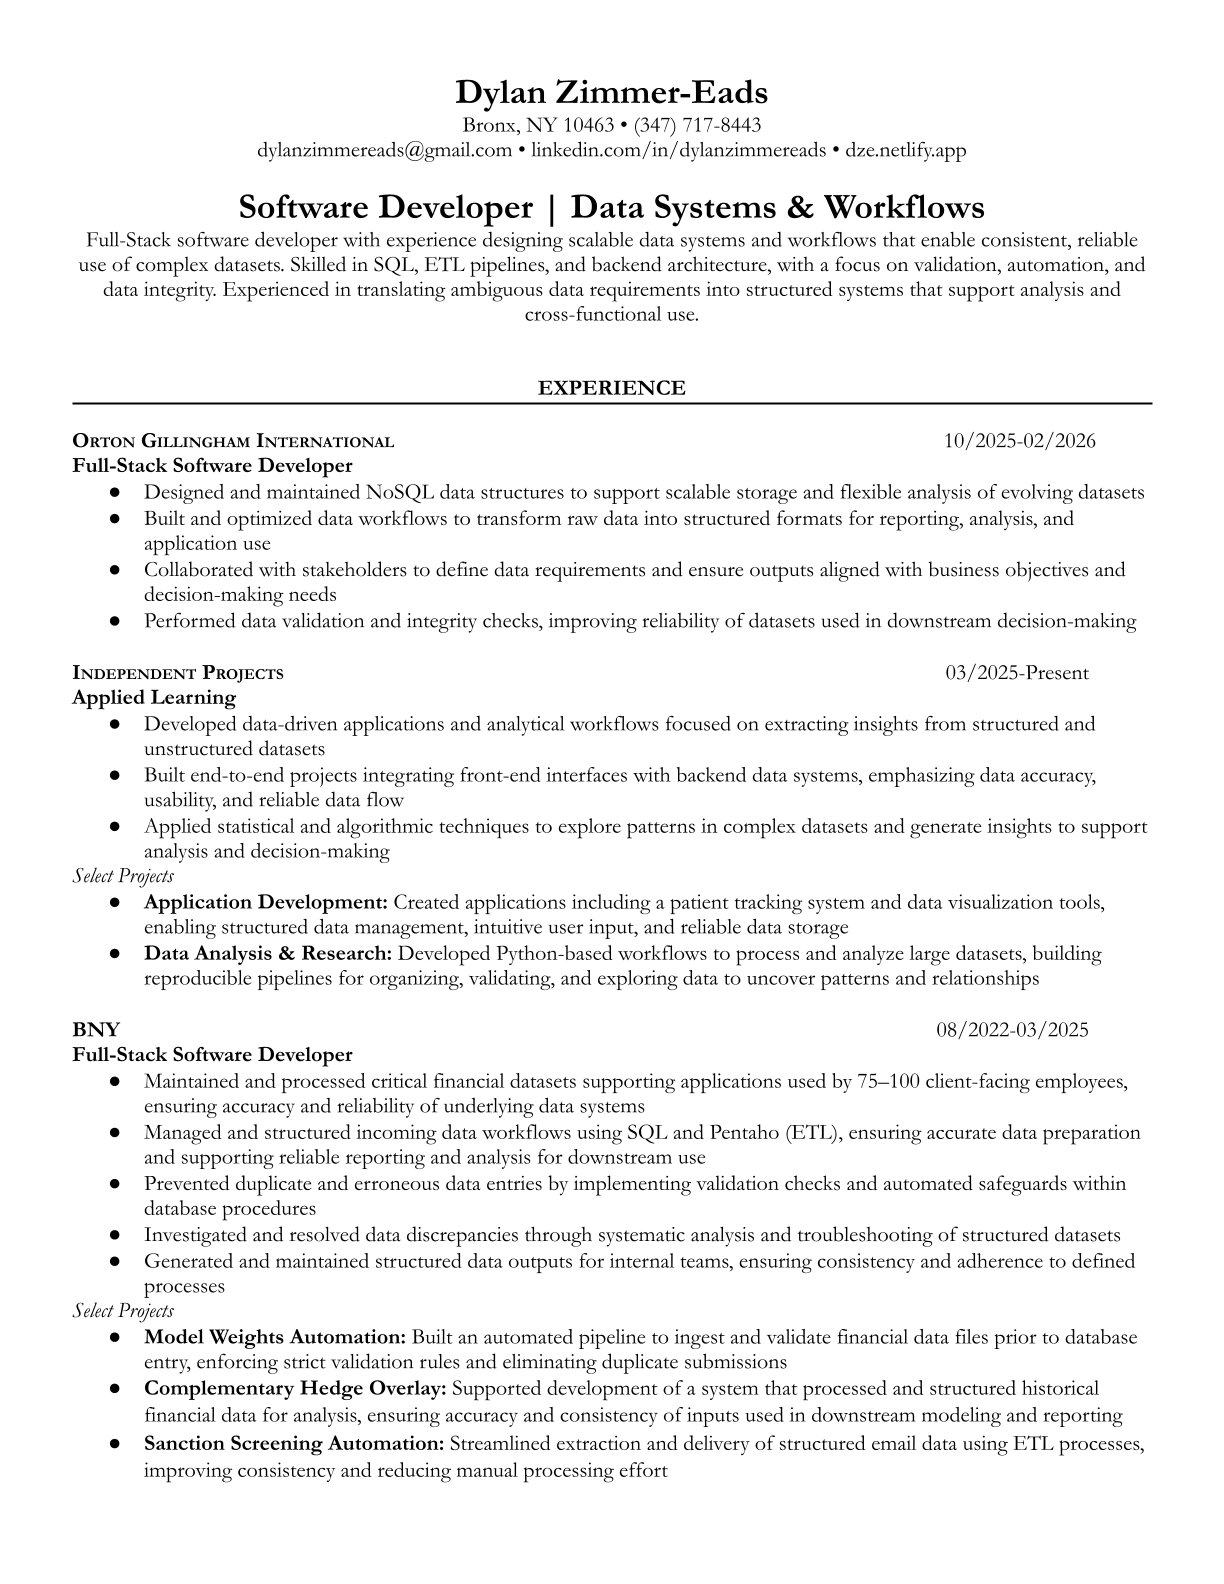
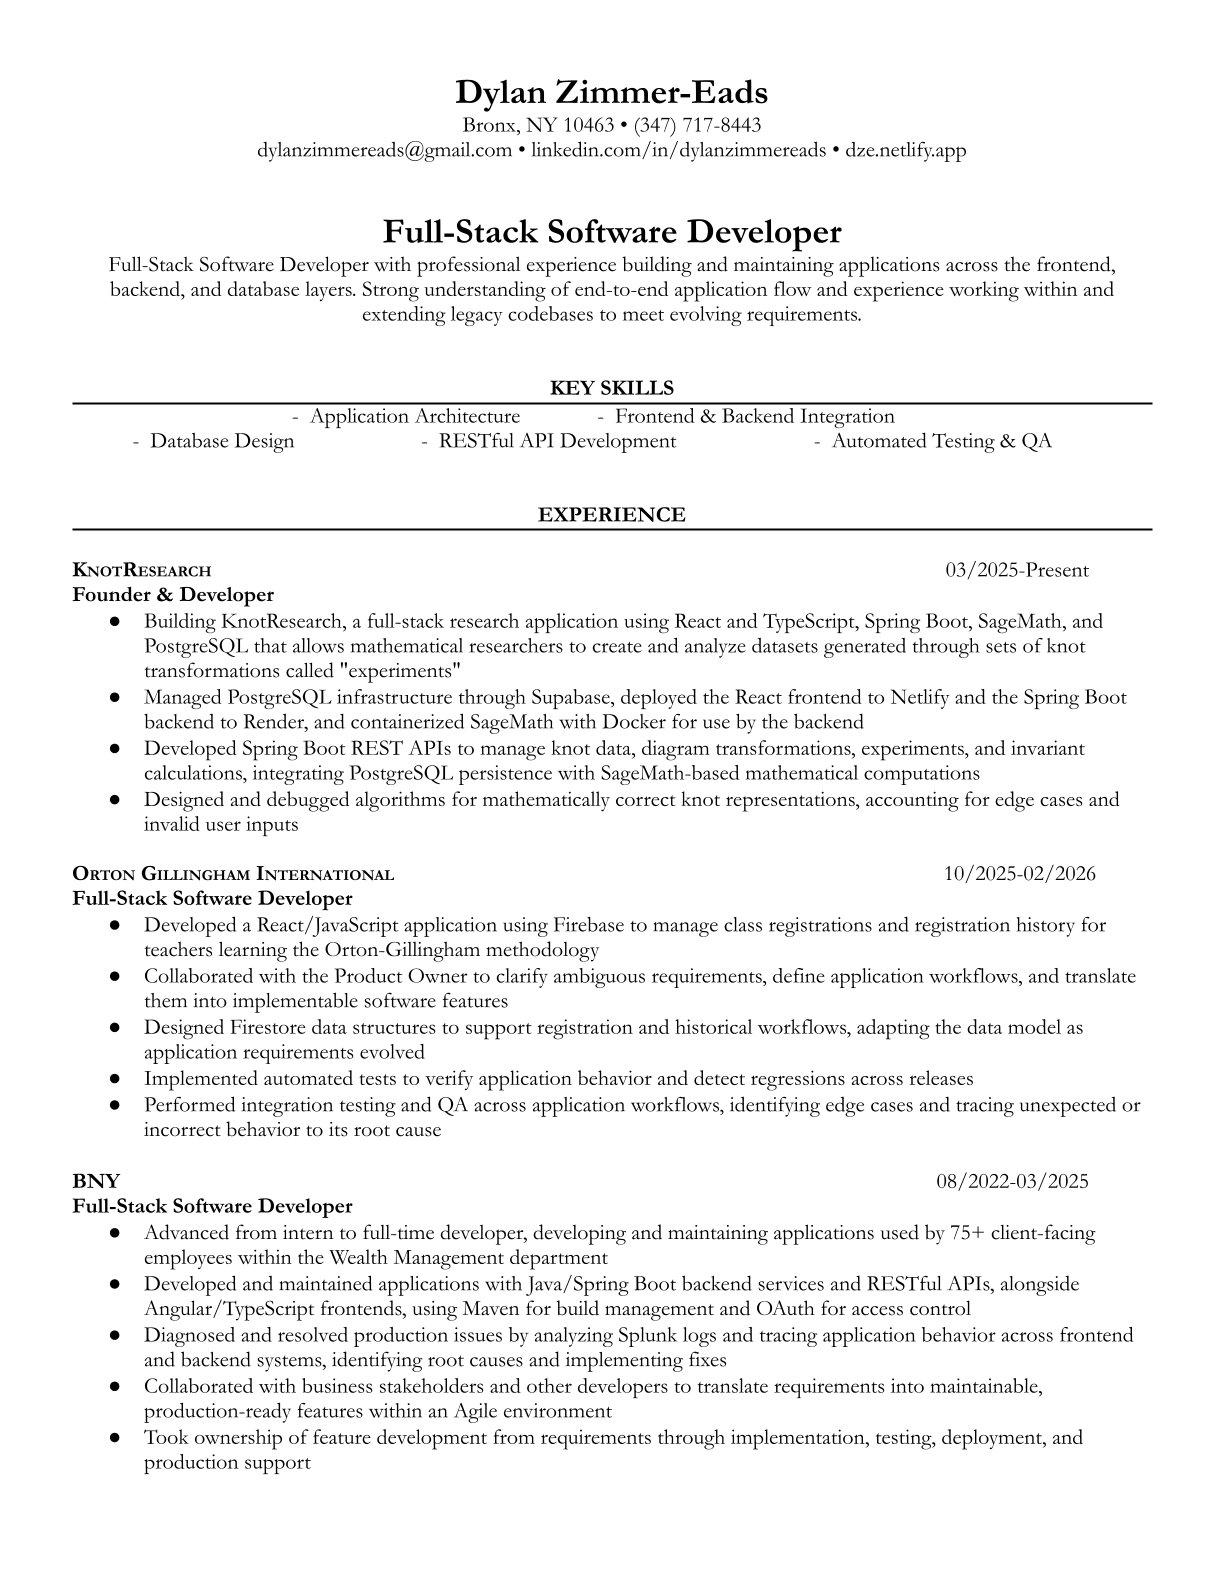
Updates

diff --git a/src/PersonalExperience.jsx b/src/PersonalExperience.jsx
@@ -23,64 +23,62 @@ function PersonalExperience() {
                     {activeCard === 'swExp' ? (
                         <div className="box-back">
                             <div className="card-header">
-                                <h3>Software Engineering Projects</h3>
-                                <a href="https://github.com/DylanZimmer/software-engineering-projects/tree/main" target="_blank" rel="noopener noreferrer">Projects</a>
+                                <h3>Previous Projects</h3>
+                                <a href="https://github.com/DylanZimmer/previous_projects" target="_blank" rel="noopener noreferrer">Projects</a>
                             </div>
                             <hr />
                             <div className="card-description">
                                 <ul>
-                                    <li>Built Workspace, an AI-powered research workspace using Gemini that generates structured objects, stores notes, and supports specialized model instances for domain-specific tasks</li>
-                                    <li>Developed Surgery Status in a Chingu collaboration, a hospital dashboard with role-based access allowing guests, surgeons, and admins to manage patient status data</li>
-                                    <li>Created Data Exploration, a tool for programmatic dataset inspection and pattern discovery through interactive queries and analysis workflows</li>
-                                    <li>Designed a Tableau data visualization dashboard to explore trends in structured datasets, highlighting statistical patterns through interactive visualizations</li>
-                                    <li>Implemented Firebase-backed NoSQL schemas, authentication, and modular React components across projects to support secure and scalable applications</li>
+                                    <li>Developed a primitive AI-powered research workspace called TrackedSpace using Gemini, with structured data objects, notes, and specialized model instances</li>
+                                    <li>Developed Surgery Status in a Chingu collaboration, a hospital dashboard with role-based access for managing patient status data</li>
+                                    <li>Created an interactive Tableau dashboard for exploring trends and patterns in reported UFO sightings</li>
+                                    <li>Developed React-based interfaces and integrated third-party services such as Gemini, Firebase, and Tableau across personal software projects</li>
                                 </ul>
                             </div>
                             <hr />
                             <div className="card-technologies-container">
                                 <strong>Technologies:</strong><br /> 
-                                <div className="card-technologies">React, Javascript, Firebase, Tailwind, Gemini, Tableau</div>
+                                <div className="card-technologies">React, JavaScript, Firebase, Gemini, Tableau</div>
                             </div>
                         </div>
                     ) : (
                         <div className="box-front">
-                            <div className="company-name">Software Engineering Projects</div>
-                            <img src="/visuals/swExp.jpg" alt="Software Engineering Experience" />
+                            <div className="company-name">Previous Projects</div>
+                            <img src="/visuals/swExp.jpg" alt="Previous Experience" />
                             <div className="role-title">Developer</div>
                         </div>
                     )}
                 </motion.div>
                 <motion.div
-                    className={`experience-box ${activeCard === 'workspace' ? 'expanded' : activeCard ? 'shrunk' : ''}`}
-                    onClick={() => setActiveCard(activeCard === 'workspace' ? null : 'workspace')}
+                    className={`experience-box ${activeCard === 'knotresearch' ? 'expanded' : activeCard ? 'shrunk' : ''}`}
+                    onClick={() => setActiveCard(activeCard === 'knotresearch' ? null : 'knotresearch')}
                 >
-                    {activeCard === 'workspace' ? (
+                    {activeCard === 'knotresearch' ? (
                         <div className="box-back">
                             <div className="card-header">
-                                <h3>Computational Math Research</h3>
-                                <a href="https://github.com/DylanZimmer/math-research" target="_blank" rel="noopener noreferrer">Projects</a>
+                                <h3>KnotResearch</h3>
+                                <a href="https://knotresearch.netlify.app/" target="_blank" rel="noopener noreferrer">KnotResearch</a>
                             </div>
                             <hr />
                             <div className="card-description">
                                 <ul>
-                                    <li>Built computational pipelines to explore large combinatorial structures and unknown Ramsey numbers, generating and analyzing massive graph datasets efficiently</li>
-                                    <li>Developed a modular knot invariant pipeline integrating databases with automated invariant computations using SageMath</li>
-                                    <li>Designed SQLite-based data storage and management systems for graphs and knot invariants to enable reproducible experiments and structured querying</li>
-                                    <li>Automated workflow for generating, analyzing, and storing results, reducing manual overhead and allowing scalable computational experimentation</li>
-                                    <li>Emphasized clean code architecture, modular functions, and reproducibility, bridging theoretical mathematics with computational tooling</li>
+                                    <li>Building KnotResearch, a full-stack research application using React and TypeScript, Spring Boot, SageMath, and PostgreSQL that allows mathematical researchers to create and analyze datasets generated through sets of knot transformations called "experiments"</li>
+                                    <li>Managed PostgreSQL infrastructure through Supabase, deployed the React frontend to Netlify and the Spring Boot backend to Render, and containerized SageMath with Docker for use by the backend</li>
+                                    <li>Developed Spring Boot REST APIs to manage knot data, diagram transformations, experiments, and invariant calculations, integrating PostgreSQL persistence with SageMath-based mathematical computations</li>
+                                    <li>Designed and debugged algorithms for mathematically correct knot representations, accounting for edge cases and invalid user inputs</li>
                                 </ul>
                             </div>
                             <hr />
                             <div className="card-technologies-container">
                                 <strong>Technologies:</strong><br /> 
-                                <div className="card-technologies">Python, SQLite, SageMath</div>
+                                <div className="card-technologies">React, TypeScript, Spring Boot, PostgreSQL, SageMath, Docker, Supabase</div>
                             </div>
                         </div>
                     ) : (
                         <div className="box-front">
-                            <div className="company-name">Computational Math Research</div>
-                            <img src="/visuals/math_research.png" alt="Math Research" />
-                            <div className="role-title">Researcher</div>
+                            <div className="company-name">KnotResearch</div>
+                            <img src="/visuals/knot_research.png" alt="KnotResearch" />
+                            <div className="role-title">Developer</div>
                         </div>
                     )}
                 </motion.div>

diff --git a/src/WorkExperience.jsx b/src/WorkExperience.jsx
@@ -30,17 +30,18 @@ function WorkExperience() {
                             </div>
                             <hr />
                             <div className="card-description">
-                            Collaborated with the company founder and original developer to finalize version one of the updated app in anticipation of increased traffic. Refactored core logic to enhance scalability and simplify ongoing maintenance ahead of hard launch.
                                 <ul>
-                                    <li>Implemented a NoSQL database to enable flexible data modeling and accelerate iteration on evolving app features</li>
-                                    <li>Applied scalable design patterns and refactored core logic to improve maintainability and performance</li>
-                                    <li>Resolved critical bugs and optimized workflows ahead of the app’s hard launch</li>
+                                    <li>Developed a React/JavaScript application using Firebase to manage class registrations and registration history for teachers learning the Orton-Gillingham methodology</li>
+                                    <li>Collaborated with the Product Owner to clarify ambiguous requirements, define application workflows, and translate them into implementable software features</li>
+                                    <li>Designed Firestore data structures to support registration and historical workflows, adapting the data model as application requirements evolved</li>
+                                    <li>Implemented automated tests to verify application behavior and detect regressions across releases</li>
+                                    <li>Performed integration testing and QA across application workflows, identifying edge cases and tracing unexpected or incorrect behavior to its root cause</li>
                                 </ul>
                             </div>
                             <hr />
                             <div className="card-technologies-container">
                                 <strong>Technologies:</strong><br /> 
-                                <div className="card-technologies">React, MongoDB, Typescript</div>
+                                <div className="card-technologies">React, JavaScript, Firebase, Firestore</div>
                             </div>
                         </div>
                     ) : (
@@ -66,18 +67,18 @@ function WorkExperience() {
                             </div>
                             <hr />
                             <div className="card-description">
-                            Maintained and expanded legacy code while creating new applications for the Wealth Management team. Worked in an Agile Scrum environment to deliver timely, high-quality solutions that supported critical client-facing systems.
                                 <ul>
-                                    <li>Built ETL processes to automate data flow</li>
-                                    <li>Collaborated on experimental hedge overlay tool that leveraged historical investment data to strengthen portfolio recommendations</li>
-                                    <li>Integrated OAuth-based security and Maven dependency management to sustain reliability of RESTful APIs</li>
-                                    <li>Developed new landing pages within existing applications, extending functionality and improving usability for client-facing teams</li>
+                                    <li>Advanced from intern to full-time developer, developing and maintaining applications used by 75+ client-facing employees within the Wealth Management department</li>
+                                    <li>Developed and maintained applications with Java/Spring Boot backend services and RESTful APIs, alongside Angular/TypeScript frontends, using Maven for build management and OAuth for access control</li>
+                                    <li>Diagnosed and resolved production issues by analyzing Splunk logs and tracing application behavior across frontend and backend systems, identifying root causes and implementing fixes</li>
+                                    <li>Collaborated with business stakeholders and other developers to translate requirements into maintainable, production-ready features within an Agile environment</li>
+                                    <li>Took ownership of feature development from requirements through implementation, testing, deployment, and production support</li>
                                 </ul>
                             </div>
                             <hr />
                             <div className="card-technologies-container">
                                 <strong>Technologies:</strong><br /> 
-                                <div className="card-technologies">ColdFusion, Angular, Spring Boot, TypeScript, SQL, Pentaho (PDI), Java</div>
+                                <div className="card-technologies">Java, Spring Boot, Angular, TypeScript, SQL, Pentaho (PDI), ColdFusion</div>
                             </div>
                         </div>
                     ) : (
@@ -103,11 +104,12 @@ function WorkExperience() {
                             </div>
                             <hr />
                             <div className="card-description">
-                            Contributed to the multi-institutional Autism Genome Project, the world’s largest study identifying genes associated with autism risk. Assisted with data analysis, reporting, and visualization, while supporting staff in database navigation and SQL usage to ensure accurate interpretation of research data.
                                 <ul>
-                                    <li>Created R scripts to streamline identification of correlating phenotypes by running Fisher's two-tailed exact tests on phenotypic datasets</li>
-                                    <li>Developed SQL queries to analyze collected data and summarize trends</li>
-                                    <li>Contributed to R Shiny application to leverage REDCap for visualizing RNA sequencing data and organizing large datasets</li>
+                                    <li>Queried and analyzed large research datasets using SQL, ensuring accurate extraction and reporting of key data</li>
+                                    <li>Maintained and validated research datasets supporting a large-scale genetics research initiative</li>
+                                    <li>Developed R scripts to analyze phenotypic data using Fisher's two-tailed exact tests, supporting accurate statistical processing of research datasets</li>
+                                    <li>Investigated research datasets for inconsistencies and trends, improving data quality and usability for research teams</li>
+                                    <li>Contributed to an R Shiny application using REDCap to organize and visualize RNA sequencing data, improving data accessibility and consistency</li>
                                 </ul>
                             </div>
                             <hr />
